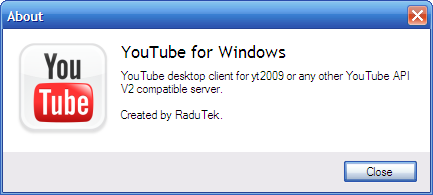
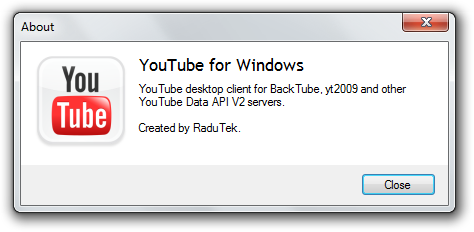
New screenshots

diff --git a/docs/screenshots.md b/docs/screenshots.md
@@ -36,16 +36,18 @@ Click the play icon to generate a playlist `.m3u` file and open it in the config
 
 ![Settings General Page](settings1.png)
 
-- Instance URL: This is the URL to the yt2009 server
+- Instance URL: This is the URL to the server
+- Instance Backend: Shows the detected instance type (BackTube, yt2009, Unknown). Click `Detect` to detect type.
 - Show Thumbnails: Show or hide thumbnails in search results, to save loading time and bandwidth
-- Enable HD Video: Enable playback of 720p video (if your hardware copes with it :)
 - Download video before playing: Check to download the video into your downloads folder, and play it locally without streaming
 
 ### Video Player
 
 ![Settings Video Player Page](settings2.png)
 
-Select the default player for watching videos.
+Select the streaming quality and the default player for watching videos.
+
+When using BackTube, all quality levels are available. For yt2009, only 720p and 360p are available, selecting other options will choose the next lowest quality (1080p -> 720p, 480p -> 360p).
 
 If Windows Media Player is selected, it will be launched automatically, optionally in full screen mode.
 
